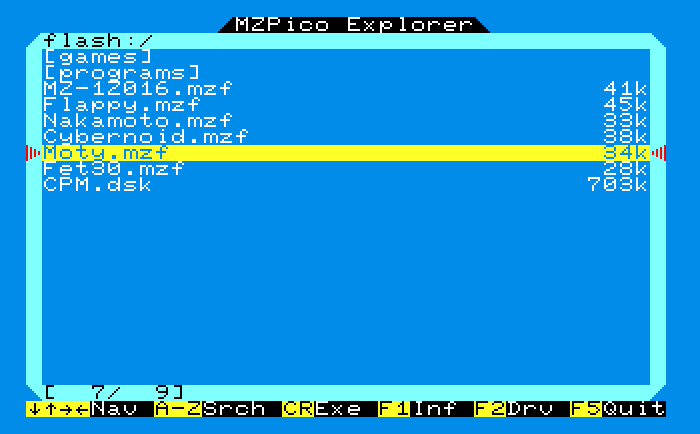
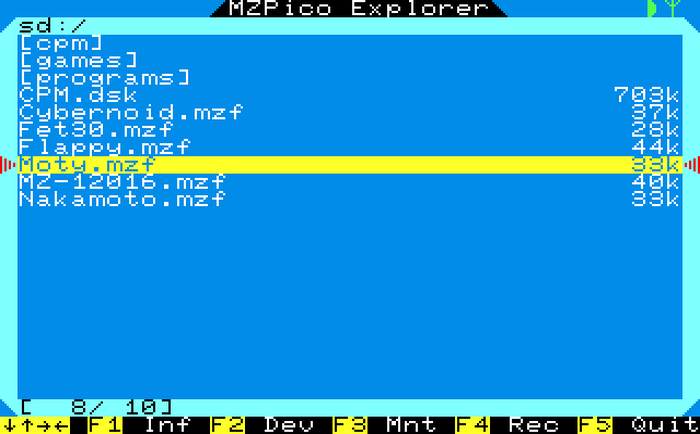
README: v0.4.0 screenshots (menu, explorer, F1/F3/F4 panels, SHIFT footer)
Captured from mz800emu running the real v0.4.0 menu and explorer over its
Unicard emulation (MZPico extensions added to the fork for that).

diff --git a/README.md b/README.md
@@ -49,6 +49,12 @@ Related hardware:
     `F3` new folder, `F4` show all files, `F5` add the selected file to the boot menu.
     `ESC` closes any overlay. The explorer reopens where it was after a reset.
 
+    | File info (F1) | Mount manager (F3) |
+    |---|---|
+    | ![File info](resources/MZPico-explorer-info.png) | ![Mount manager](resources/MZPico-explorer-mounts.png) |
+    | **Recent launches (F4)** | **File operations (SHIFT)** |
+    | ![Recent launches](resources/MZPico-explorer-recent.png) | ![SHIFT footer](resources/MZPico-explorer-shift.png) |
+
 - **Fast system boot via SRAM emulation**
   Allows instant startup on the MZ-800:
   - Boot via port `0xF8` on cold start or reset
